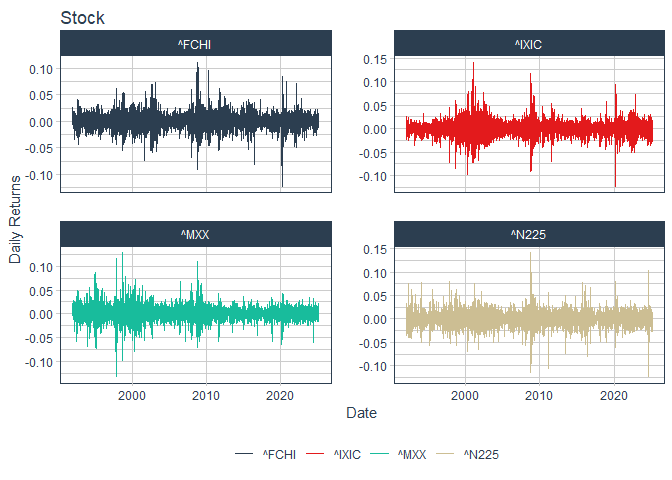
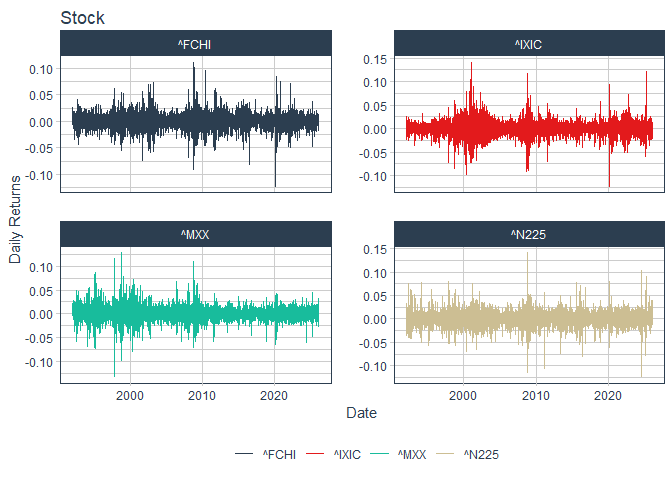
var

diff --git a/VaR.md b/VaR.md
@@ -49,7 +49,7 @@ symbols <- c("^FCHI", "^IXIC", "^N225", "^MXX")
 stock_prices <- symbols %>%
   tq_get(get  = "stock.prices",
          from = "1992-01-01",
-         to   = "2025-03-01") %>%
+         to   = "2026-03-01") %>%
   group_by(symbol)
 
 (stock_prices %>% slice(1, n()))
@@ -60,13 +60,13 @@ stock_prices <- symbols %>%
     ##   symbol date         open   high    low  close     volume adjusted
     ##   <chr>  <date>      <dbl>  <dbl>  <dbl>  <dbl>      <dbl>    <dbl>
     ## 1 ^FCHI  1992-01-02  1755.  1766.  1747.  1750.          0    1750.
-    ## 2 ^FCHI  2025-02-28  8047.  8112.  8031.  8112.  132221800    8112.
+    ## 2 ^FCHI  2026-02-27  8609.  8639.  8554.  8581.  109240900    8581.
     ## 3 ^IXIC  1992-01-02   580.   586.   576.   586.  181380000     586.
-    ## 4 ^IXIC  2025-02-28 18477. 18861. 18373. 18847. 8247520000   18847.
+    ## 4 ^IXIC  2026-02-27 22615. 22736. 22538. 22668. 9552610000   22668.
     ## 5 ^MXX   1992-01-02  1445.  1445.  1445.  1445.          0    1445.
-    ## 6 ^MXX   2025-02-28 52665. 52893. 52235. 52326.  484856000   52326.
+    ## 6 ^MXX   2026-02-27 71326. 71890. 70925. 71406.  359876400   71406.
     ## 7 ^N225  1992-01-06 23031. 23802. 23031. 23801.          0   23801.
-    ## 8 ^N225  2025-02-28 37853. 37925. 36840. 37156.  191600000   37156.
+    ## 8 ^N225  2026-02-27 58606. 58924. 58131. 58850.  192400000   58850.
 
 ### 1.2 Démêlage (wrangling en anglais)
 
@@ -94,16 +94,16 @@ daily_returns <- stock_prices %>%
 
     ## # A tibble: 8 × 3
     ## # Groups:   symbol [4]
-    ##   symbol date       dreturns
-    ##   <chr>  <date>        <dbl>
-    ## 1 ^FCHI  1992-01-02  0      
-    ## 2 ^FCHI  2025-02-28  0.00112
-    ## 3 ^IXIC  1992-01-02  0      
-    ## 4 ^IXIC  2025-02-28  0.0163 
-    ## 5 ^MXX   1992-01-02  0      
-    ## 6 ^MXX   2025-02-28 -0.00536
-    ## 7 ^N225  1992-01-06  0      
-    ## 8 ^N225  2025-02-28 -0.0288
+    ##   symbol date        dreturns
+    ##   <chr>  <date>         <dbl>
+    ## 1 ^FCHI  1992-01-02  0       
+    ## 2 ^FCHI  2026-02-27 -0.00466 
+    ## 3 ^IXIC  1992-01-02  0       
+    ## 4 ^IXIC  2026-02-27 -0.00919 
+    ## 5 ^MXX   1992-01-02  0       
+    ## 6 ^MXX   2026-02-27  0.000220
+    ## 7 ^N225  1992-01-06  0       
+    ## 8 ^N225  2026-02-27  0.00165
 
 ``` r
 table_returns <-
@@ -114,7 +114,7 @@ table_returns <-
 (table_returns)
 ```
 
-    ## # A tibble: 8,627 × 4
+    ## # A tibble: 8,886 × 4
     ##     `^FCHI`  `^IXIC`  `^N225`    `^MXX`
     ##       <dbl>    <dbl>    <dbl>     <dbl>
     ##  1  0        0       NA        0       
@@ -127,7 +127,7 @@ table_returns <-
     ##  8 -0.00713  0.00313 -0.0306   0.00669 
     ##  9  0.0107   0.0131   0.00361  0.0191  
     ## 10  0.0162   0.00810 NA        0.000703
-    ## # ℹ 8,617 more rows
+    ## # ℹ 8,876 more rows
 
 Il y a quelques données manquantes que je devrai gérer dans la partie
 modélisation.
@@ -183,10 +183,10 @@ daily_returns %>%
     ## # A tibble: 4 × 6
     ##   symbol  moyenne ecartype nombre    min   max
     ##   <chr>     <dbl>    <dbl>  <int>  <dbl> <dbl>
-    ## 1 ^FCHI  0.000272   0.0134   8432 -0.123 0.112
-    ## 2 ^IXIC  0.000525   0.0148   8350 -0.123 0.142
-    ## 3 ^MXX   0.000529   0.0140   8311 -0.133 0.129
-    ## 4 ^N225  0.000161   0.0146   8137 -0.124 0.142
+    ## 1 ^FCHI  0.000272   0.0133   8686 -0.123 0.112
+    ## 2 ^IXIC  0.000534   0.0148   8600 -0.123 0.142
+    ## 3 ^MXX   0.000552   0.0139   8561 -0.133 0.129
+    ## 4 ^N225  0.000215   0.0146   8380 -0.124 0.142
 
 ``` r
 daily_returns %>%
@@ -239,25 +239,108 @@ paramétriques (Gaussienne, Skew Student, GEV et GPD).
 
 <!-- Ci-dessous, je vous propose un premier tuto pour calculer la VaR Historique du CAC 40 : -->
 
+``` r
+cac40 <- as.matrix(na.omit(table_returns[,1]))
+quantile(cac40, probs = c(0.01, 0.001))
+```
+
+    ##          1%        0.1% 
+    ## -0.03879266 -0.06329090
+
+``` r
+# VaR Historique et Gaussienne - Option 1
+daily_returns %>%
+  group_by(symbol) %>%
+  summarise(Histo = quantile(dreturns, c(0.01, 0.001)),
+            Gauss = mean(dreturns) + sd(dreturns) * qnorm(c(0.01, 0.001), 0, 1))
+```
+
+    ## # A tibble: 8 × 3
+    ## # Groups:   symbol [4]
+    ##   symbol   Histo   Gauss
+    ##   <chr>    <dbl>   <dbl>
+    ## 1 ^FCHI  -0.0388 -0.0308
+    ## 2 ^FCHI  -0.0633 -0.0409
+    ## 3 ^IXIC  -0.0409 -0.0339
+    ## 4 ^IXIC  -0.0725 -0.0451
+    ## 5 ^MXX   -0.0382 -0.0317
+    ## 6 ^MXX   -0.0641 -0.0423
+    ## 7 ^N225  -0.0387 -0.0338
+    ## 8 ^N225  -0.0719 -0.0449
+
+``` r
+# VaR Historique et Gaussienne - Option 2
+# pour le CAC 40
+cac40 <- as.matrix(na.omit(table_returns[,1]))
+quantile(cac40, probs = c(0.01, 0.001))
+```
+
+    ##          1%        0.1% 
+    ## -0.03879266 -0.06329090
+
+``` r
+mean(cac40) + sd(cac40) * qnorm(c(0.01, 0.001), 0, 1)
+```
+
+    ## [1] -0.03075328 -0.04094082
+
+``` r
+# pour les 4 indices en même temps
+table_returns %>%
+  apply(2, quantile, probs = c(0.01, 0.001), na.rm = T)
+```
+
+    ##            ^FCHI       ^IXIC       ^N225        ^MXX
+    ## 1%   -0.03879266 -0.04088223 -0.03874542 -0.03821780
+    ## 0.1% -0.06329090 -0.07254020 -0.07188053 -0.06410145
+
+``` r
+table_returns %>%
+  apply(2, function(x) mean(x, na.rm = T) + sd(x, na.rm = T) * qnorm(c(0.01, 0.001), 0, 1))
+```
+
+    ##            ^FCHI       ^IXIC       ^N225        ^MXX
+    ## [1,] -0.03075328 -0.03385136 -0.03378026 -0.03167992
+    ## [2,] -0.04094082 -0.04514231 -0.04494299 -0.04226352
+
+``` r
+# Estimation de la VaR skew Student pour le CAC 40 - option 1
+library(sn)
+esti <- daily_returns %>%
+  filter(symbol == '^FCHI') %>%
+  reframe(st.mple(y = dreturns)$dp)
+qst(c(0.01, 0.001), esti[[1, 2]], esti[[2, 2]], esti[[3, 2]], esti[[4, 2]])
+```
+
+    ## [1] -0.04201171 -0.10247637
+
+``` r
+# Estimation de la VaR skew Student pour le CAC 40 - option 2
+esti <- st.mple(y = cac40)
+qst(c(0.01, 0.001), esti$dp["xi"], esti$dp["omega"], esti$dp["alpha"], esti$dp["nu"])
+```
+
+    ## [1] -0.04201171 -0.10247637
+
 Voici ci-dessous les VaR demandées dans *l’exercice 1.1* pour les
 différents indices avec alpha = 1%.
 
 | symbol | Historique | Gaussienne | Skew_Student |
 |:------:|:----------:|:----------:|:------------:|
-| ^FCHI  |   -3.89%   |   -3.10%   |    -4.34%    |
-| ^IXIC  |   -4.09%   |   -3.38%   |    -7.29%    |
-|  ^MXX  |   -3.86%   |   -3.19%   |    -4.00%    |
-| ^N225  |   -3.87%   |   -3.38%   |    -5.43%    |
+| ^FCHI  |   -3.88%   |   -3.08%   |    -4.20%    |
+| ^IXIC  |   -4.09%   |   -3.39%   |    -7.33%    |
+|  ^MXX  |   -3.82%   |   -3.17%   |    -3.79%    |
+| ^N225  |   -3.87%   |   -3.38%   |    -5.24%    |
 
 Voici ci-dessous les VaR demandées dans *l’exercice 1.1* pour les
 différents indices avec alpha = 0.1%.
 
 | symbol | Historique | Gaussienne | Skew_Student |
 |:------:|:----------:|:----------:|:------------:|
-| ^FCHI  |   -6.35%   |   -4.12%   |   -10.55%    |
-| ^IXIC  |   -7.27%   |   -4.51%   |   -28.53%    |
-|  ^MXX  |   -6.42%   |   -4.26%   |    -9.24%    |
-| ^N225  |   -6.97%   |   -4.49%   |   -14.82%    |
+| ^FCHI  |   -6.33%   |   -4.09%   |   -10.25%    |
+| ^IXIC  |   -7.25%   |   -4.51%   |   -28.61%    |
+|  ^MXX  |   -6.41%   |   -4.23%   |    -8.04%    |
+| ^N225  |   -7.19%   |   -4.49%   |   -13.96%    |
 
 ### 2.2 Résolution de *l’exercice 2.1* du cours
 
@@ -273,17 +356,17 @@ différents indices avec alpha = 1%.
 
 | symbol |  GEV   |  GPD   |
 |:------:|:------:|:------:|
-| ^FCHI  | -3.06% | -3.80% |
-| ^IXIC  | -3.23% | -4.12% |
-|  ^MXX  | -3.06% | -3.84% |
-| ^N225  | -3.40% | -3.87% |
+| ^FCHI  | -3.05% | -3.79% |
+| ^IXIC  | -3.24% | -4.13% |
+|  ^MXX  | -3.04% | -3.82% |
+| ^N225  | -3.42% | -3.87% |
 
 Voici ci-dessous les VaR TVE demandées dans *l’exercice 2.1* pour les
 différents indices avec alpha = 0.1%.
 
 | symbol |  GEV   |  GPD   |
 |:------:|:------:|:------:|
-| ^FCHI  | -6.01% | -6.61% |
-| ^IXIC  | -6.90% | -7.37% |
-|  ^MXX  | -6.70% | -6.89% |
-| ^N225  | -6.55% | -7.40% |
+| ^FCHI  | -5.95% | -6.58% |
+| ^IXIC  | -6.88% | -7.36% |
+|  ^MXX  | -6.67% | -6.86% |
+| ^N225  | -6.42% | -7.43% |
